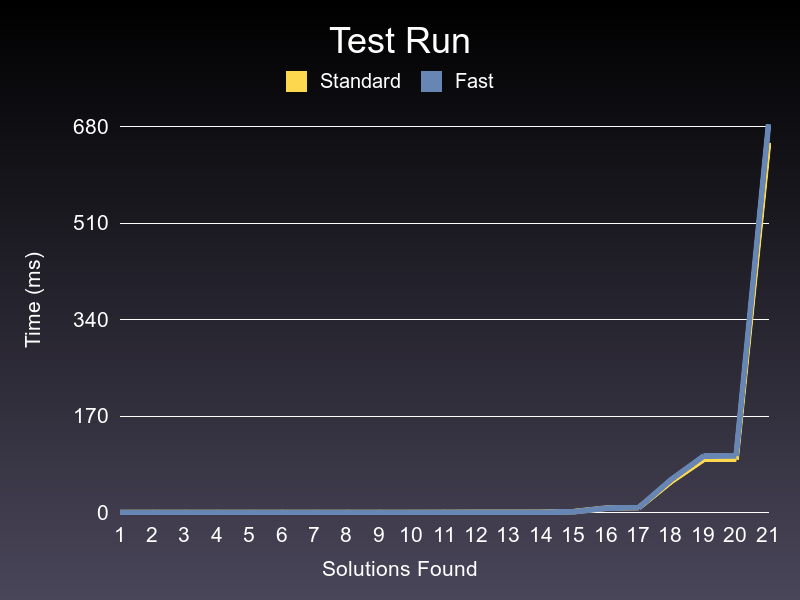
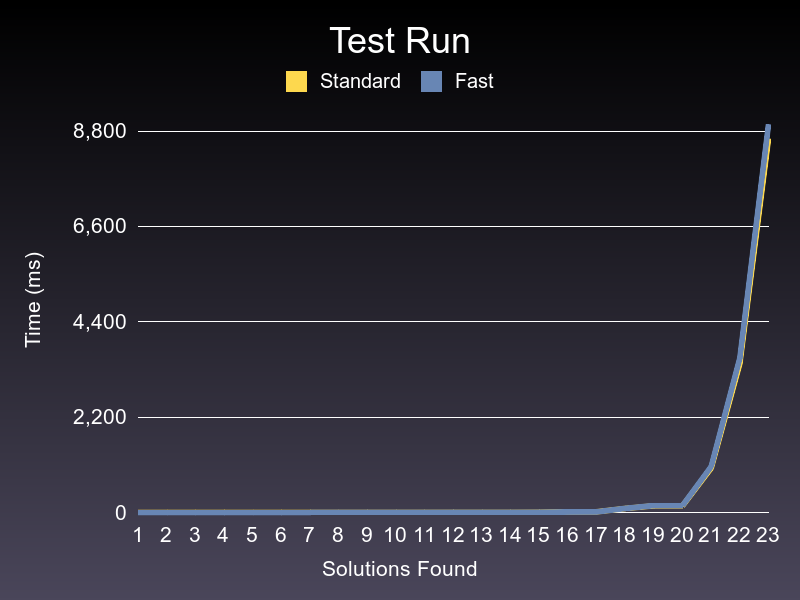
Add ability to set max time on runs

diff --git a/narcs/Tester.rb b/narcs/Tester.rb
@@ -10,11 +10,13 @@ class Tester
     # Run each for 60 seconds and compare how many solutions were found
     # most basic thing is run them head to head and get how long it took to run
 
-    k = 6
-    result = FindNarcs.new.call(k, "Standard")
-    fast_result = FastFindNarcs.new.call(k, "Fast")
+    k = 7
+    max_seconds = 10
 
-    holder = ResultHolder.new("Test Run")
+    result = FindNarcs.new.call(k, "Standard", max_seconds)
+    fast_result = FastFindNarcs.new.call(k, "Fast", max_seconds)
+
+    holder = ResultHolder.new("Timed Run Max: #{max_seconds}s")
 
     holder.add_result(result)
     holder.add_result(fast_result)

diff --git a/narcs/funcs/FastFindNarcs.rb b/narcs/funcs/FastFindNarcs.rb
@@ -2,13 +2,15 @@ class FastFindNarcs
   def initialize
   end
 
-  def call(k, result_name)
+  def call(k, result_name, max_seconds=nil)
+    start_time = Time.now
     result = Result.new(result_name)
     max = 10 ** k
     powers = {}
     current_k = 0
 
     0.upto(max - 1) do |n|
+      break if max_seconds != nil && (Time.now - start_time).to_i > max_seconds
       sum = 0
       num_digits = n.to_s.size
       original_n = n

diff --git a/narcs/funcs/FindNarcs.rb b/narcs/funcs/FindNarcs.rb
@@ -2,11 +2,13 @@ class FindNarcs
   def initialize
   end
 
-  def call(k, result_name)
+  def call(k, result_name, max_seconds=nil)
+    start_time = Time.now
     max = 10 ** k
     result = Result.new(result_name)
 
     0.upto(max - 1) do |n|
+      break if max_seconds != nil && (Time.now - start_time).to_i > max_seconds
       sum = 0
       num_string = n.to_s
       num_string.each_char do |digit|
